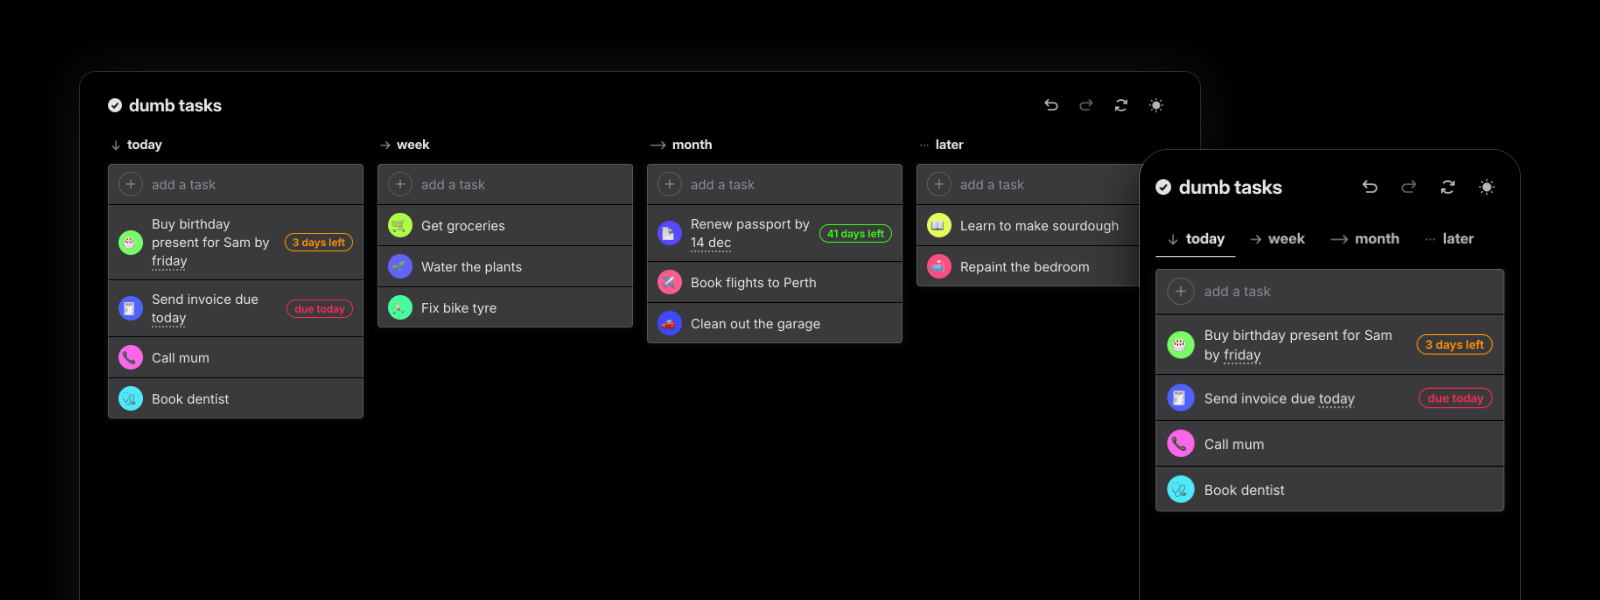
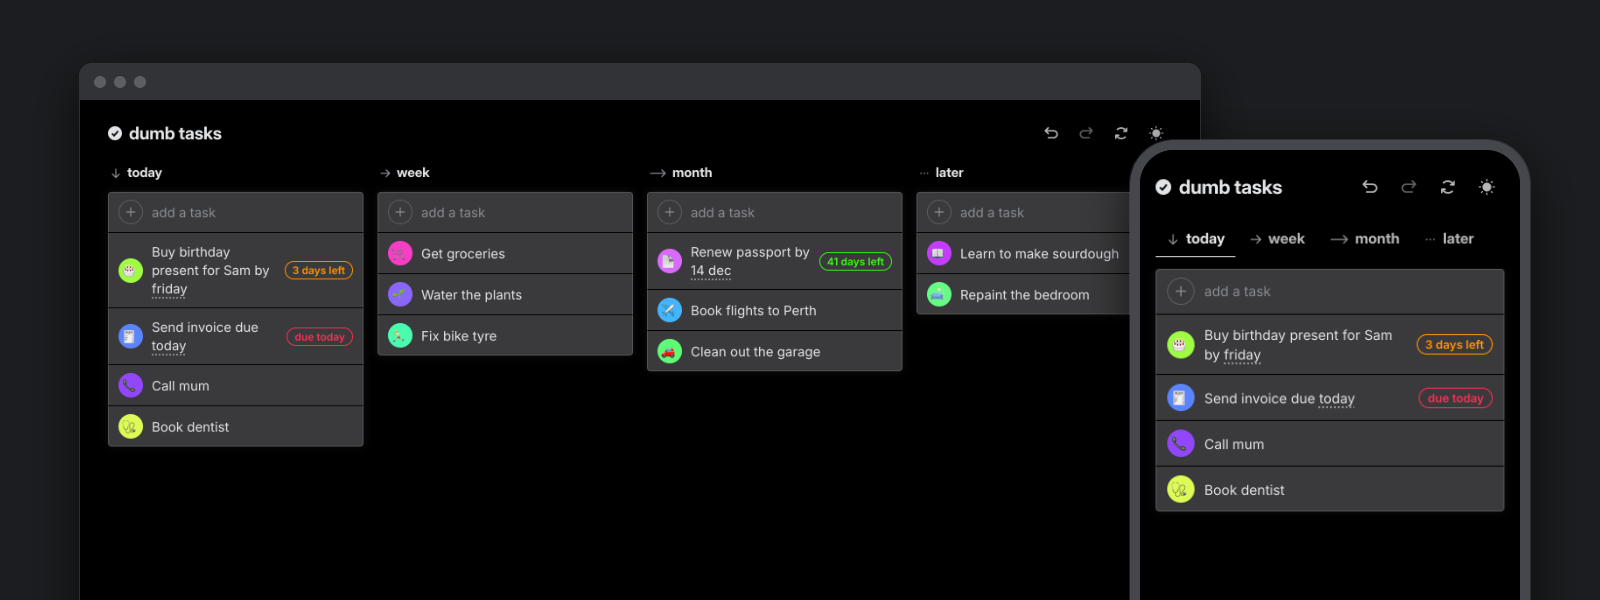
Add local-first line to link card; clearer device frames in README

diff --git a/scripts/make-preview-image.js b/scripts/make-preview-image.js
@@ -38,7 +38,12 @@ const THEMES = {
     muted: '#5f6269',
     onText: '#ffffff',
     edge: '0 0 0 1px rgb(0 0 0 / 0.1)',
-    lift: '0 0 0 1px rgb(0 0 0 / 0.1), 0 16px 48px rgb(0 0 0 / 0.16)',
+    // The README's devices: a darker backdrop, a window bar and a phone bezel
+    backdrop: '#e1e2e6',
+    frame: '#cfd0d5',
+    dots: '#a9abb1',
+    bezel: '#1b1c1f',
+    lift: '0 0 0 1px rgb(0 0 0 / 0.12), 0 16px 48px rgb(0 0 0 / 0.18)',
   },
   dark: {
     bg: '#000000',
@@ -46,7 +51,11 @@ const THEMES = {
     muted: '#888b92',
     onText: '#121314',
     edge: '0 0 0 1px rgb(255 255 255 / 0.14), 0 0 48px rgb(255 255 255 / 0.08)',
-    lift: '0 0 0 1px rgb(255 255 255 / 0.2), 0 16px 48px rgb(0 0 0 / 0.8)',
+    backdrop: '#1c1d20',
+    frame: '#323337',
+    dots: '#5c5e64',
+    bezel: '#46474c',
+    lift: '0 0 0 1px rgb(255 255 255 / 0.12), 0 16px 48px rgb(0 0 0 / 0.7)',
   },
 };
 
@@ -144,27 +153,33 @@ ${html}`);
 
 const MARK = `<svg class="mark" viewBox="0 0 16 16"><circle cx="8" cy="8" r="8" /><path d="M4.5 8.3 7 10.8 11.5 5.5" /></svg>`;
 
-// The link card: logo and tagline on one line, the desktop layout below running off the bottom
+// The link card: logo, tagline and what sets the app apart, the desktop layout below running
+// off the bottom
 const light = await screenshots('light');
 await render(
   `<style>
     header {
       display: flex;
-      align-items: baseline;
+      align-items: center;
       justify-content: space-between;
-      padding: 56px 64px 0;
+      padding: 48px 64px 0;
+      text-align: right;
     }
     h1 { margin: 0; font-size: 64px; font-weight: 700; letter-spacing: -0.02em; }
-    p { margin: 0; color: ${THEMES.light.muted}; font-size: 40px; font-weight: 500; }
+    p { margin: 0; font-size: 38px; font-weight: 500; }
+    .sub { margin-top: 6px; color: ${THEMES.light.muted}; font-size: 26px; }
     .window {
       left: 64px;
       right: 64px;
-      top: 170px;
+      top: 168px;
       border-radius: 16px 16px 0 0;
       box-shadow: ${THEMES.light.edge};
     }
   </style>
-  <header><h1>${MARK}dumb tasks</h1><p>A really simple todo list</p></header>
+  <header>
+    <h1>${MARK}dumb tasks</h1>
+    <div><p>A really simple todo list</p><p class="sub">Local-first · works offline · no account</p></div>
+  </header>
   <div class="window"><img src="${light.card}" /></div>`,
   THEMES.light,
   1200,
@@ -180,22 +195,36 @@ for (const [name, theme] of Object.entries(THEMES)) {
     `<style>
       .desktop {
         left: 80px;
-        top: 72px;
+        top: 64px;
         width: 1120px;
-        border-radius: 16px 16px 0 0;
-        box-shadow: ${theme.edge};
+        border-radius: 12px 12px 0 0;
+        background: ${theme.frame};
+        box-shadow: ${theme.lift};
+      }
+      .bar {
+        display: flex;
+        gap: 8px;
+        padding: 12px 14px;
+      }
+      .bar i {
+        width: 12px;
+        height: 12px;
+        border-radius: 50%;
+        background: ${theme.dots};
       }
       .phone {
-        left: 1140px;
-        top: 150px;
+        left: 1130px;
+        top: 140px;
         width: 380px;
-        border-radius: 28px 28px 0 0;
+        border: 10px solid ${theme.bezel};
+        border-bottom: none;
+        border-radius: 44px 44px 0 0;
         box-shadow: ${theme.lift};
       }
     </style>
-    <div class="window desktop"><img src="${shots.desktop}" /></div>
+    <div class="window desktop"><div class="bar"><i></i><i></i><i></i></div><img src="${shots.desktop}" /></div>
     <div class="window phone"><img src="${shots.phone}" /></div>`,
-    theme,
+    { ...theme, bg: theme.backdrop },
     1600,
     600,
     `docs/preview${name === 'light' ? '' : '-dark'}.png`,
